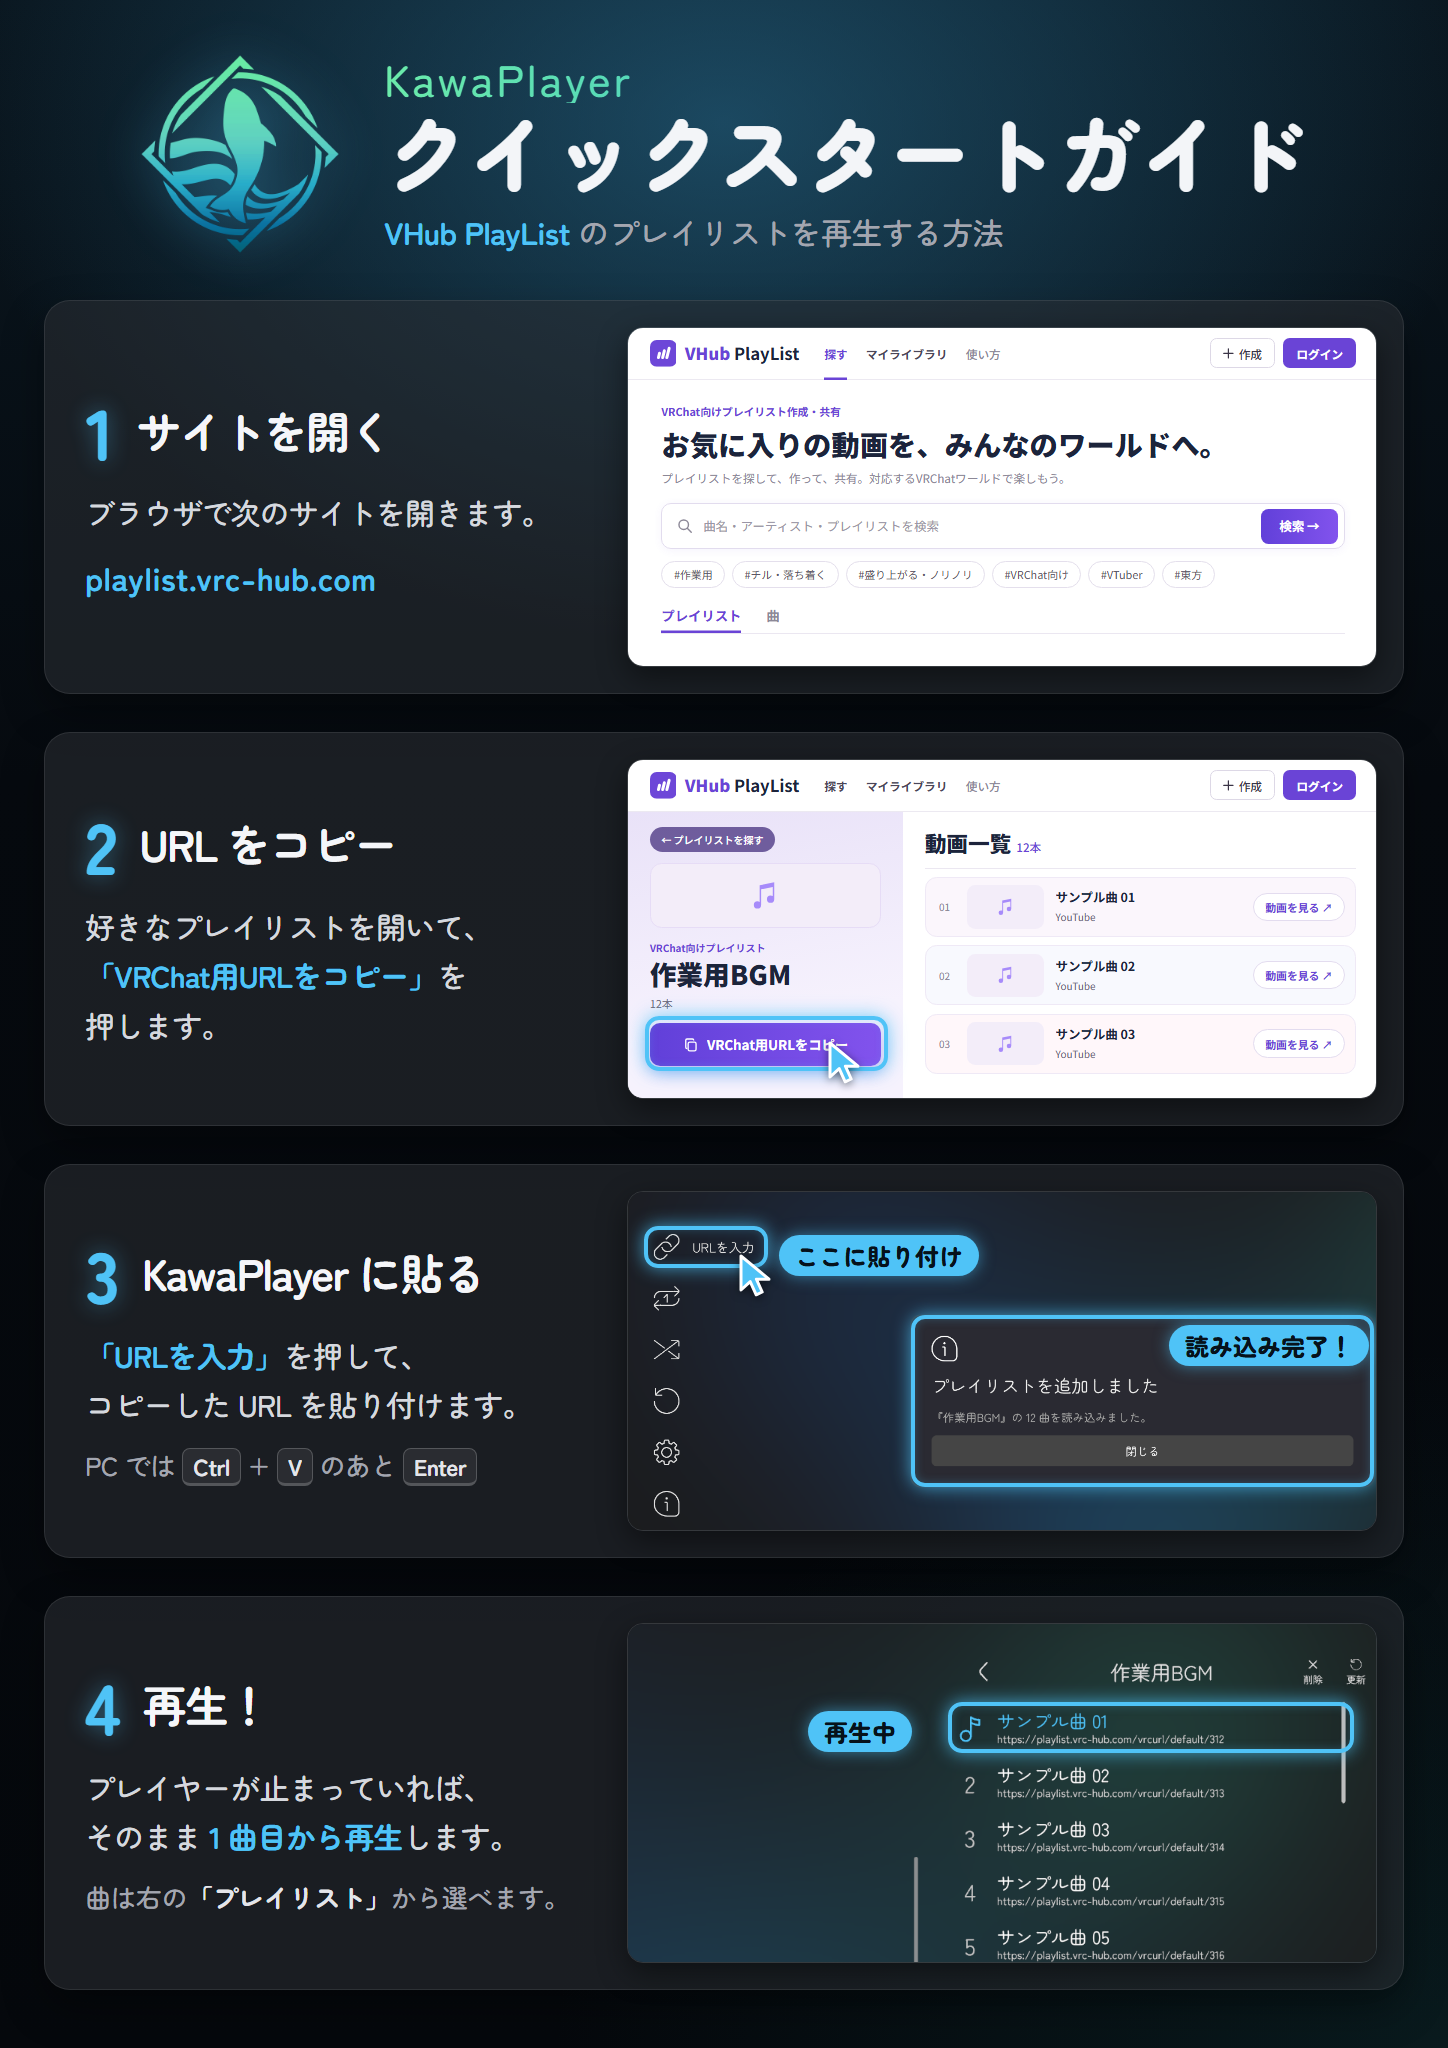
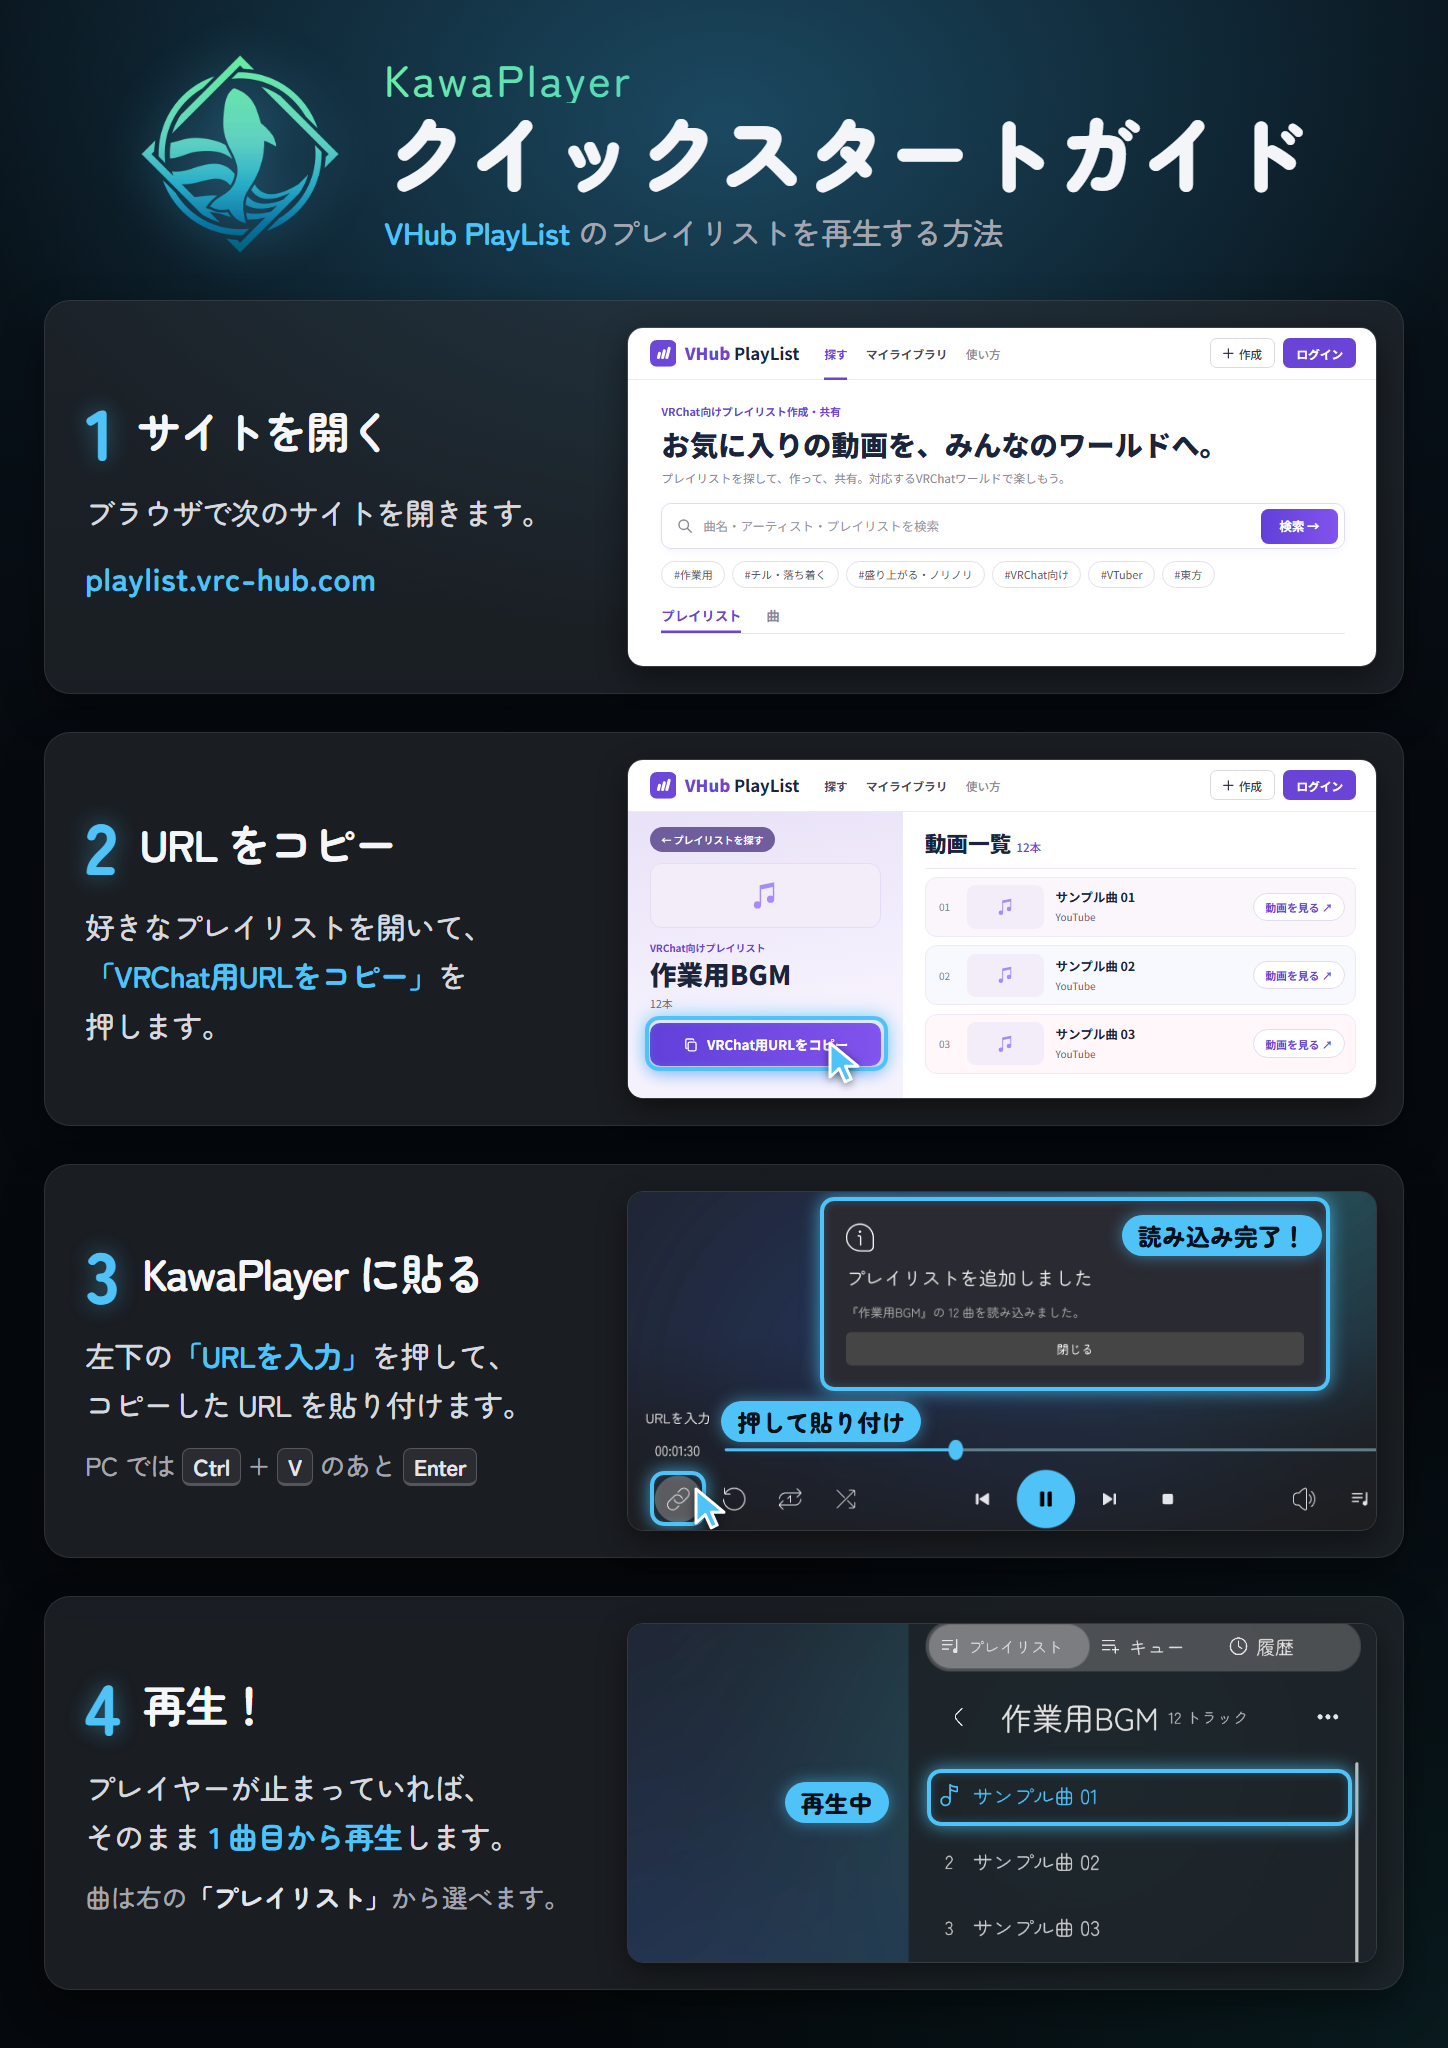
docs(poster): show the new screen in the quick start poster's steps 3 and 4
The poster still showed the old screen: the URL field among the buttons
down the left, and the old list. Steps 3 and 4 now take pictures of the
new screen, taken in the throwaway guide scene with the sample playlist
作業用BGM: the URL button bottom left, pointed at with its name above
it, and the loaded message; then the list on the right with the
playlist's first track playing. Step 3 says where the button is.

Changed region(s): [[0.4351, 0.5625, 0.9634, 0.75], [0.5283, 0.7812, 0.9634, 0.9688], [0.0622, 0.6562, 0.3108, 0.6875]]

diff --git a/Media~/poster/source/poster.html b/Media~/poster/source/poster.html
@@ -207,7 +207,7 @@
     <section class="card">
       <div class="copy">
         <div class="head"><div class="num">3</div><h2>KawaPlayer に貼る</h2></div>
-        <p class="body"><em>「URLを入力」</em>を押して、<br>コピーした URL を貼り付けます。</p>
+        <p class="body">左下の<em>「URLを入力」</em>を押して、<br>コピーした URL を貼り付けます。</p>
         <p class="note">PC では <kbd>Ctrl</kbd> + <kbd>V</kbd> のあと <kbd>Enter</kbd></p>
       </div>
       <div class="shot" id="s3"></div>
@@ -283,18 +283,18 @@
     cursorAt("s2", btn.left - base.left + btn.width * 0.74, btn.top - base.top + btn.height * 0.4);
   }
 
-  // 3: the URL field pointed at, and the message once the playlist is in.
-  const c3 = crop("s3", "step3.png", 1920, 1080, 0, 150, 1400);
-  mark("s3", c3, [30, 214, 262, 292]);
-  cursorAt("s3", (196 - c3.x) * c3.s, (262 - c3.y) * c3.s);
-  tag("s3", c3, "ここに貼り付け", 282, 230);
-  mark("s3", c3, [528, 380, 1392, 700]);
-  tag("s3", c3, "読み込み完了！", 1010, 398);
+  // 3: the URL button bottom left, pointed at (its name shows above it), and the message once the playlist is in.
+  const c3 = crop("s3", "step3.png", 1920, 1080, 0, 320, 1610);
+  mark("s3", c3, [48, 918, 168, 1038]);
+  cursorAt("s3", (128 - c3.x) * c3.s, (950 - c3.y) * c3.s);
+  tag("s3", c3, "押して貼り付け", 200, 768);
+  mark("s3", c3, [412, 331, 1508, 748]);
+  tag("s3", c3, "読み込み完了！", 1060, 370);
 
-  // 4: the track list, playing.
-  const c4 = crop("s4", "step4.png", 1920, 1080, 900, 122, 1000);
-  mark("s4", c4, [1326, 226, 1868, 294]);
-  tag("s4", c4, "再生中", 1140, 238);
+  // 4: the playlist's tracks in the list on the right, the first playing.
+  const c4 = crop("s4", "step4.png", 1920, 1080, 770, 30, 1150);
+  mark("s4", c4, [1228, 252, 1880, 340]);
+  tag("s4", c4, "再生中", 1010, 272);
 </script>
 </body>
 </html>
